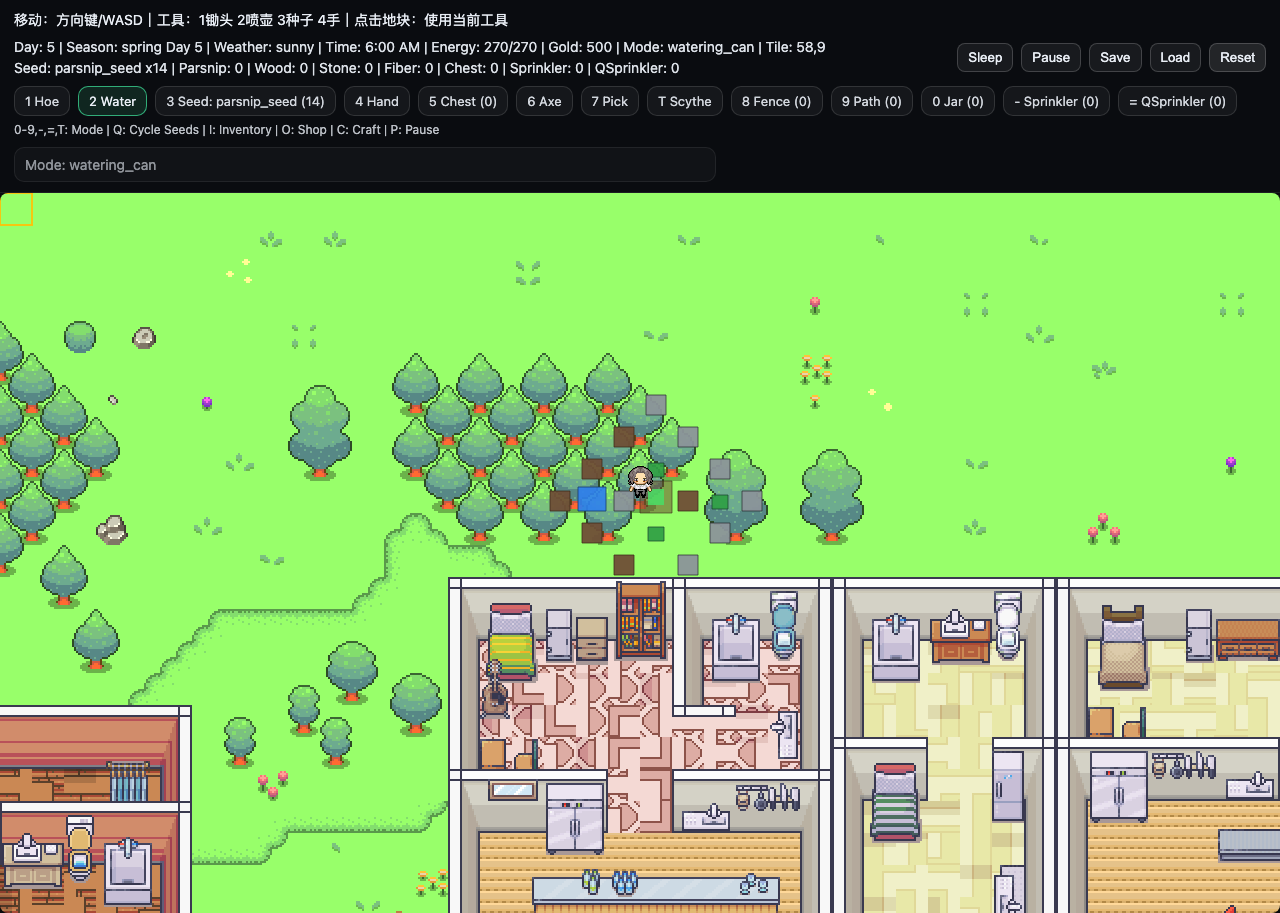
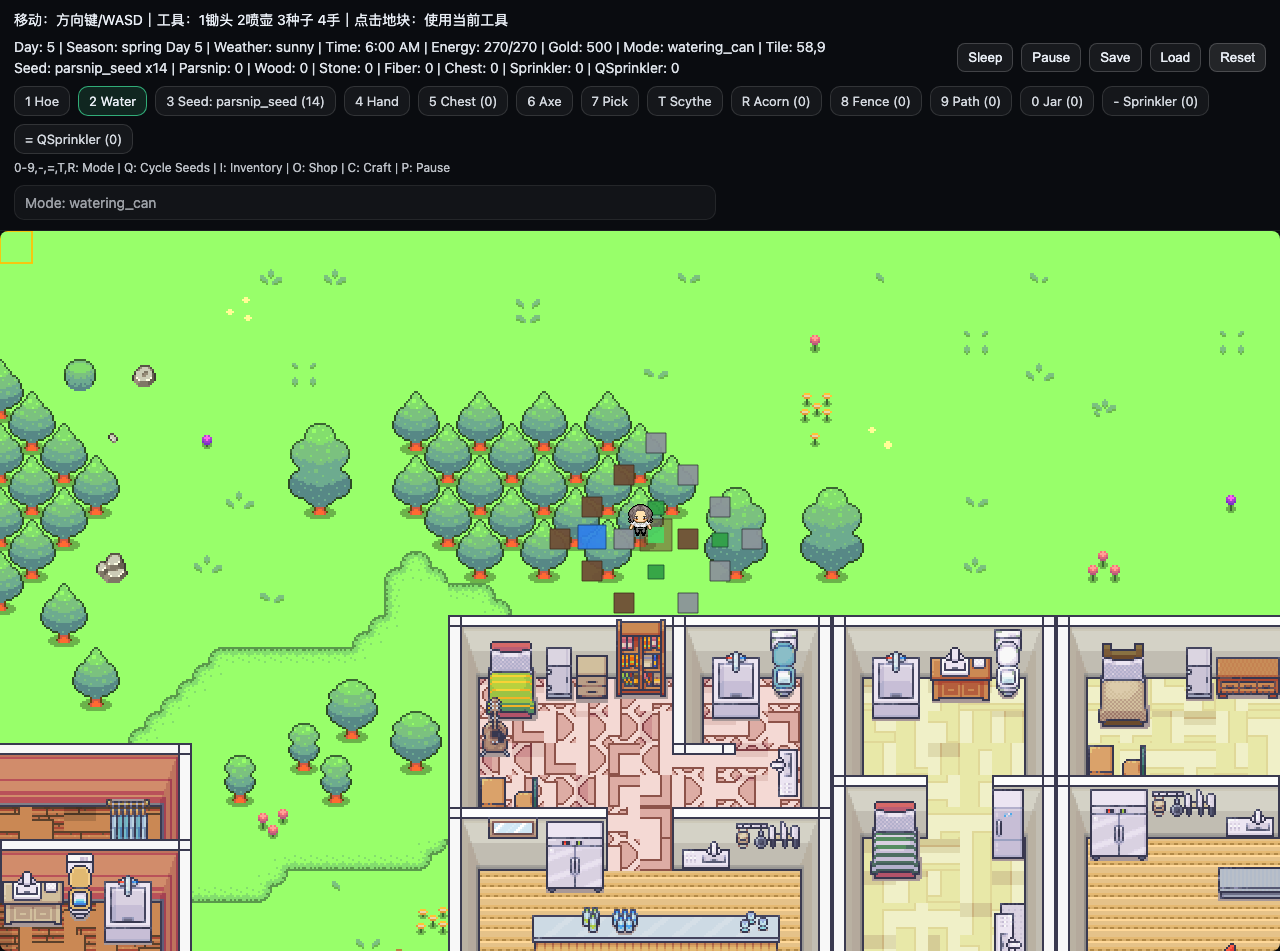
feat: add trees (acorn planting, growth, chopping)

diff --git a/src/phaser/scenes/WorldScene.ts b/src/phaser/scenes/WorldScene.ts
@@ -291,6 +291,7 @@ export class WorldScene extends Phaser.Scene {
       if (ev.key === "-" || ev.key === "_") this.setMode("sprinkler" as any);
       if (ev.key === "=" || ev.key === "+") this.setMode("quality_sprinkler" as any);
       if (ev.key.toLowerCase() === "t") this.setMode("scythe");
+      if (ev.key.toLowerCase() === "r") this.setMode("acorn" as any);
       if (ev.key.toLowerCase() === "q") this.cycleSeed();
       if (ev.key.toLowerCase() === "p") this.setPaused(!this.timePaused);
     });
@@ -686,6 +687,7 @@ export class WorldScene extends Phaser.Scene {
       wood: this.gameState?.countItem("wood" as any) ?? 0,
       stone: this.gameState?.countItem("stone" as any) ?? 0,
       fiber: this.gameState?.countItem("fiber" as any) ?? 0,
+      acorn: this.gameState?.countItem("acorn" as any) ?? 0,
       fence: this.gameState?.countItem("fence" as any) ?? 0,
       path: this.gameState?.countItem("path" as any) ?? 0,
       sprinkler: this.gameState?.countItem("sprinkler" as any) ?? 0,
@@ -945,6 +947,7 @@ export class WorldScene extends Phaser.Scene {
 
     const cropIdFromSeed = Object.values(CROPS).find((c) => c.seedItemId === this.mode)?.id ?? null;
     const isSeedMode = Boolean(cropIdFromSeed);
+    const isTreeSeedMode = this.mode === "acorn";
     const isPlaceableMode =
       this.mode === "fence" ||
       this.mode === "path" ||
@@ -955,6 +958,7 @@ export class WorldScene extends Phaser.Scene {
     if (
       this.mode === "hoe" ||
       this.mode === "watering_can" ||
+      this.mode === "acorn" ||
       this.mode === "axe" ||
       this.mode === "pickaxe" ||
       isSeedMode
@@ -972,6 +976,13 @@ export class WorldScene extends Phaser.Scene {
         return false;
       }
     }
+    if (isTreeSeedMode) {
+      if ((this.gameState.countItem("acorn" as any) ?? 0) <= 0) {
+        this.toast("No acorns", "warn");
+        if (window.__cokeFamer) window.__cokeFamer.lastAction = { kind: this.mode, ok: false, tx, ty };
+        return false;
+      }
+    }
     if (isPlaceableMode) {
       if ((this.gameState.countItem(this.mode as any) ?? 0) <= 0) {
         this.toast("No item to place", "warn");
@@ -984,6 +995,7 @@ export class WorldScene extends Phaser.Scene {
     if (this.mode === "hoe") ok = this.gameState.hoe(tx, ty);
     else if (this.mode === "watering_can") ok = this.gameState.water(tx, ty);
     else if (isSeedMode) ok = this.gameState.plant(tx, ty, cropIdFromSeed!);
+    else if (isTreeSeedMode) ok = this.gameState.plantTree(tx, ty);
     else if (this.mode === "chest") ok = this.gameState.placeChest(tx, ty);
     else if (this.mode === "fence") ok = this.gameState.placeSimpleObject(tx, ty, "fence");
     else if (this.mode === "path") ok = this.gameState.placeSimpleObject(tx, ty, "path");
@@ -1147,6 +1159,22 @@ export class WorldScene extends Phaser.Scene {
         this.objectLayer.add(rect);
         this.objectVisuals.set(`${o.tx},${o.ty}`, rect);
         this.addObjectBody(o.tx, o.ty, TILE_SIZE - 16, TILE_SIZE - 16, 8, 9);
+      } else if (o.obj.id === "tree") {
+        const x = o.tx * this.map.tileWidth;
+        const y = o.ty * this.map.tileHeight;
+        const tree = o.obj as any;
+        const stage = Number(tree.stage ?? 0);
+        const w = stage <= 0 ? TILE_SIZE - 22 : stage === 1 ? TILE_SIZE - 18 : TILE_SIZE - 14;
+        const h = stage <= 0 ? TILE_SIZE - 22 : stage === 1 ? TILE_SIZE - 16 : TILE_SIZE - 6;
+        const ox = stage <= 0 ? 11 : stage === 1 ? 9 : 7;
+        const oy = stage <= 0 ? 16 : stage === 1 ? 12 : 6;
+        const color = stage <= 0 ? 0x8d6e63 : stage === 1 ? 0x4caf50 : 0x2f9e44;
+        const rect = this.add.rectangle(x + ox, y + oy, w, h, color, 0.92).setOrigin(0);
+        rect.setStrokeStyle(1, 0x1b4332, 0.7);
+        rect.setDepth(ENTITY_DEPTH_BASE + y + 2);
+        this.objectLayer.add(rect);
+        this.objectVisuals.set(`${o.tx},${o.ty}`, rect);
+        this.addObjectBody(o.tx, o.ty, w, h, ox, oy);
       } else if (o.obj.id === "preserves_jar") {
         const x = o.tx * this.map.tileWidth;
         const y = o.ty * this.map.tileHeight;

diff --git a/src/simulation/FarmGame.ts b/src/simulation/FarmGame.ts
@@ -29,6 +29,10 @@ const WEED_NODE_HP = 1;
 const WOOD_NODE_DROP = 5;
 const STONE_NODE_DROP = 5;
 const WEED_NODE_DROP = 3;
+const TREE_SEED_DAYS = 3;
+const TREE_SAPLING_DAYS = 3;
+const TREE_HP_BY_STAGE = { 0: 1, 1: 2, 2: 6 } as const;
+const TREE_WOOD_BY_STAGE = { 0: 0, 1: 5, 2: 15 } as const;
 const MINUTES_PER_DAY = 24 * 60;
 const PRESERVES_MINUTES = 180;
 const SHIPPING_BIN_SIZE = 24;
@@ -259,6 +263,19 @@ export class FarmGame {
     }
   }
 
+  private growTreesNextDay(): void {
+    for (const obj of this.objects.values()) {
+      if (obj.id !== "tree") continue;
+      if (obj.stage >= 2) continue;
+      obj.daysInStage += 1;
+      const needed = obj.stage === 0 ? TREE_SEED_DAYS : TREE_SAPLING_DAYS;
+      if (obj.daysInStage < needed) continue;
+      obj.stage = (obj.stage + 1) as 0 | 1 | 2;
+      obj.daysInStage = 0;
+      obj.hp = TREE_HP_BY_STAGE[obj.stage];
+    }
+  }
+
   private preservesOutputFor(input: ItemId): ItemId | null {
     if (input === "parsnip") return "parsnip_jar";
     if (input === "potato") return "potato_jar";
@@ -356,6 +373,18 @@ export class FarmGame {
     if (t.crop || t.tilled || t.watered) return false;
     const nodeHp = hp ?? WEED_NODE_HP;
     this.objects.set(key, { id: "weed", hp: Math.max(1, nodeHp) });
+    return true;
+  }
+
+  plantTree(tx: number, ty: number): boolean {
+    const key = tileKey(tx, ty);
+    if (this.objects.has(key)) return false;
+    const t = this.getTile(tx, ty);
+    if (t.crop || t.tilled || t.watered) return false;
+    if (!this.canSpendEnergy(ACTION_ENERGY.plant)) return false;
+    if (!this.consumeItem("acorn", 1)) return false;
+    this.objects.set(key, { id: "tree", stage: 0, daysInStage: 0, hp: TREE_HP_BY_STAGE[0] });
+    this.spend("plant");
     return true;
   }
 
@@ -794,12 +823,19 @@ export class FarmGame {
   chop(tx: number, ty: number): boolean {
     const key = tileKey(tx, ty);
     const obj = this.objects.get(key);
-    if (!obj || obj.id !== "wood") return false;
+    if (!obj || (obj.id !== "wood" && obj.id !== "tree")) return false;
     if (!this.canSpendEnergy(ACTION_ENERGY.chop)) return false;
     obj.hp -= 1;
     if (obj.hp <= 0) {
       this.objects.delete(key);
-      this.addItem("wood", WOOD_NODE_DROP);
+      if (obj.id === "wood") {
+        this.addItem("wood", WOOD_NODE_DROP);
+      } else if (obj.id === "tree") {
+        const wood = TREE_WOOD_BY_STAGE[obj.stage];
+        if (wood > 0) this.addItem("wood", wood);
+        // Small deterministic chance: every 2nd day yields one acorn from chopping mature trees.
+        if (obj.stage >= 2 && this.day % 2 === 0) this.addItem("acorn", 1);
+      }
     }
     this.spend("chop");
     return true;
@@ -864,6 +900,7 @@ export class FarmGame {
     this.minutes = DAY_START_MINUTES;
     this.energy = ENERGY_MAX;
     this.updateMachines();
+    this.growTreesNextDay();
 
     // Season change can kill out-of-season crops.
     {

diff --git a/e2e/game.spec.ts b/e2e/game.spec.ts
@@ -429,3 +429,60 @@ test("scythe: clears weeds and gives fiber", async ({ page }) => {
   expect((res as any).after.obj).toBeNull();
   expect((res as any).after.fiber).toBeGreaterThan((res as any).before.fiber);
 });
+
+test("tree: plant acorn, grow, and chop for wood", async ({ page }) => {
+  await page.goto("/");
+  await page.waitForSelector("#game-container canvas");
+  await page.waitForFunction(() => (window as any).__cokeFamer?.ready === true);
+  await page.locator("#btn-reset").click();
+
+  const res = await page.evaluate(() => {
+    const s = (window as any).__cokeFamer;
+    const { tx, ty } = s.player;
+
+    const buy = s.api.shopBuy("acorn", 1);
+    if (!buy.ok) return { ok: false, step: "buy", buy };
+
+    const candidates = [
+      { tx: tx + 1, ty },
+      { tx: tx - 1, ty },
+      { tx, ty: ty + 1 },
+      { tx, ty: ty - 1 }
+    ];
+
+    const clearIfNeeded = (p: { tx: number; ty: number }) => {
+      const obj = s.api.getObject(p.tx, p.ty);
+      if (!obj) return;
+      if (obj.id === "wood") for (let i = 0; i < 5; i++) s.api.useAt(p.tx, p.ty, "axe");
+      else if (obj.id === "stone") for (let i = 0; i < 5; i++) s.api.useAt(p.tx, p.ty, "pickaxe");
+      else if (obj.id === "weed") s.api.useAt(p.tx, p.ty, "scythe");
+    };
+
+    let pos: { tx: number; ty: number } | null = null;
+    for (const p of candidates) {
+      clearIfNeeded(p);
+      if (s.api.useAt(p.tx, p.ty, "acorn")) {
+        pos = p;
+        break;
+      }
+    }
+    if (!pos) return { ok: false, step: "plant" };
+
+    // Grow to mature.
+    for (let i = 0; i < 6; i++) s.api.sleep();
+
+    const obj1 = s.api.getObject(pos.tx, pos.ty);
+    if (!obj1 || obj1.id !== "tree") return { ok: false, step: "not_tree", obj1 };
+
+    const wood0 = s.inventory.wood ?? 0;
+    for (let i = 0; i < 10; i++) s.api.useAt(pos.tx, pos.ty, "axe");
+    const obj2 = s.api.getObject(pos.tx, pos.ty);
+    const wood1 = s.inventory.wood ?? 0;
+
+    return { ok: true, wood0, wood1, obj2 };
+  });
+
+  expect(res.ok).toBeTruthy();
+  expect((res as any).obj2).toBeNull();
+  expect((res as any).wood1).toBeGreaterThan((res as any).wood0);
+});

diff --git a/src/ui/shopPanel.ts b/src/ui/shopPanel.ts
@@ -62,14 +62,20 @@ export function mountShopPanel(host: HTMLElement): {
       body.appendChild(buyRow("Parsnip Seeds (20g)", "parsnip_seed", 5));
       body.appendChild(buyRow("Potato Seeds (50g)", "potato_seed", 1));
       body.appendChild(buyRow("Potato Seeds (50g)", "potato_seed", 5));
+      body.appendChild(buyRow("Acorn (20g)", "acorn", 1));
+      body.appendChild(buyRow("Acorn (20g)", "acorn", 5));
       body.appendChild(buyRow("Chest (200g)", "chest", 1));
     } else if (season === "summer") {
       body.appendChild(buyRow("Blueberry Seeds (80g)", "blueberry_seed", 1));
       body.appendChild(buyRow("Blueberry Seeds (80g)", "blueberry_seed", 5));
+      body.appendChild(buyRow("Acorn (20g)", "acorn", 1));
+      body.appendChild(buyRow("Acorn (20g)", "acorn", 5));
       body.appendChild(buyRow("Chest (200g)", "chest", 1));
     } else if (season === "fall") {
       body.appendChild(buyRow("Cranberry Seeds (100g)", "cranberry_seed", 1));
       body.appendChild(buyRow("Cranberry Seeds (100g)", "cranberry_seed", 5));
+      body.appendChild(buyRow("Acorn (20g)", "acorn", 1));
+      body.appendChild(buyRow("Acorn (20g)", "acorn", 5));
       body.appendChild(buyRow("Chest (200g)", "chest", 1));
     } else {
       const msg = el("div");

diff --git a/src/ui/hud.ts b/src/ui/hud.ts
@@ -65,7 +65,7 @@ export function mountHud(containerId: string): void {
   host.appendChild(hotbar);
 
   const subHint = el("div", "subhint");
-  subHint.textContent = "0-9,-,=,T: Mode | Q: Cycle Seeds | I: Inventory | O: Shop | C: Craft | P: Pause";
+  subHint.textContent = "0-9,-,=,T,R: Mode | Q: Cycle Seeds | I: Inventory | O: Shop | C: Craft | P: Pause";
   host.appendChild(subHint);
 
   const btnSleep = document.getElementById("btn-sleep") as HTMLButtonElement;
@@ -206,6 +206,7 @@ export function mountHud(containerId: string): void {
       { key: "axe", label: "6 Axe" },
       { key: "pickaxe", label: "7 Pick" },
       { key: "scythe", label: "T Scythe" },
+      { key: "acorn", label: `R Acorn (${inventory.acorn ?? 0})` },
       { key: "fence", label: `8 Fence (${inventory.fence ?? 0})` },
       { key: "path", label: `9 Path (${inventory.path ?? 0})` },
       { key: "preserves_jar", label: `0 Jar (${inventory.preserves_jar ?? 0})` },

diff --git a/src/content/items.ts b/src/content/items.ts
@@ -14,6 +14,7 @@ export type ItemId =
   | "wood"
   | "stone"
   | "fiber"
+  | "acorn"
   | "fence"
   | "path"
   | "sprinkler"
@@ -45,6 +46,7 @@ export const ITEMS: Record<ItemId, ItemDef> = {
   wood: { id: "wood", name: "Wood", maxStack: 999, buyPrice: null, sellPrice: 2 },
   stone: { id: "stone", name: "Stone", maxStack: 999, buyPrice: null, sellPrice: 2 },
   fiber: { id: "fiber", name: "Fiber", maxStack: 999, buyPrice: null, sellPrice: 1 },
+  acorn: { id: "acorn", name: "Acorn", maxStack: 999, buyPrice: 20, sellPrice: 5 },
   fence: { id: "fence", name: "Fence", maxStack: 999, buyPrice: null, sellPrice: 1 },
   path: { id: "path", name: "Path", maxStack: 999, buyPrice: null, sellPrice: 1 },
   sprinkler: { id: "sprinkler", name: "Sprinkler", maxStack: 999, buyPrice: null, sellPrice: 25 },

diff --git a/src/simulation/types.ts b/src/simulation/types.ts
@@ -29,6 +29,7 @@ export type PlacedObjectId =
   | "wood"
   | "stone"
   | "weed"
+  | "tree"
   | "fence"
   | "path"
   | "sprinkler"
@@ -61,7 +62,14 @@ export type PreservesJarState = {
   completeAtAbsMinutes: number | null;
 };
 
-export type PlacedObjectState = ChestState | ShippingBinState | ResourceState | SimplePlacedState | PreservesJarState;
+export type TreeState = {
+  id: "tree";
+  stage: 0 | 1 | 2; // 0 seed, 1 sapling, 2 mature
+  daysInStage: number;
+  hp: number;
+};
+
+export type PlacedObjectState = ChestState | ShippingBinState | ResourceState | TreeState | SimplePlacedState | PreservesJarState;
 
 export type GameSaveV0 = {
   version: 0;

diff --git a/docs/玩法说明.md b/docs/玩法说明.md
@@ -25,6 +25,7 @@
 8) 出货：把物品放进 Shipping Bin，睡觉时自动卖出获得金币
 9) 自动浇水：制作并放置洒水器（Sprinkler），睡觉后会在新的一天开始时自动浇水周围耕地
 10) 清理杂草：用镰刀清理 `weed` 获得 `fiber`
+11) 种树：购买并种下 `acorn`，睡觉后会逐天长大；成熟后可用斧头砍伐获得大量 `wood`
 
 ---
 
@@ -49,6 +50,7 @@
 - `-`：洒水器（Sprinkler，放置基础洒水器）
 - `=`：高级洒水器（Quality Sprinkler，放置 8 格洒水器）
 - `T`：镰刀（Scythe，清理杂草 weed 获得 fiber）
+- `R`：橡果（Acorn，种树）
 - `Q`：循环切换“当前选中”的种子（只会在你背包里有对应种子时才会切到）
 - `C`：制作（Craft，打开制作面板）
 
@@ -226,7 +228,25 @@
 
 ![Scythe](./screenshots/12-scythe.png)
 
-### 2.13 采集资源（wood / stone）
+### 2.13 树木（acorn / tree / wood）
+
+说明：
+
+- 在商店购买 `Acorn`（橡果）
+- 种在空地上会逐天长大（需要多次睡觉/过天）
+- 成熟后可用 `Axe` 砍伐，获得大量 `wood`
+
+操作：
+
+- 购买：按 `O` 打开 Shop，购买 `Acorn`
+- 种树：按 `R` 切到 Acorn 模式，点击相邻空地种下
+- 砍树：按 `6` 切到 Axe，点击树木多次直到砍倒
+
+示意图（种下并长成树，Axe 可砍伐）：
+
+![Tree](./screenshots/13-tree.png)
+
+### 2.14 采集资源（wood / stone）
 
 说明：
 
@@ -242,7 +262,7 @@
 
 ![Gather](./screenshots/06-gather.png)
 
-### 2.14 睡觉/过天
+### 2.15 睡觉/过天
 
 - 点击 HUD 的 `Sleep`：推进到下一天
   - 会触发作物生长结算
